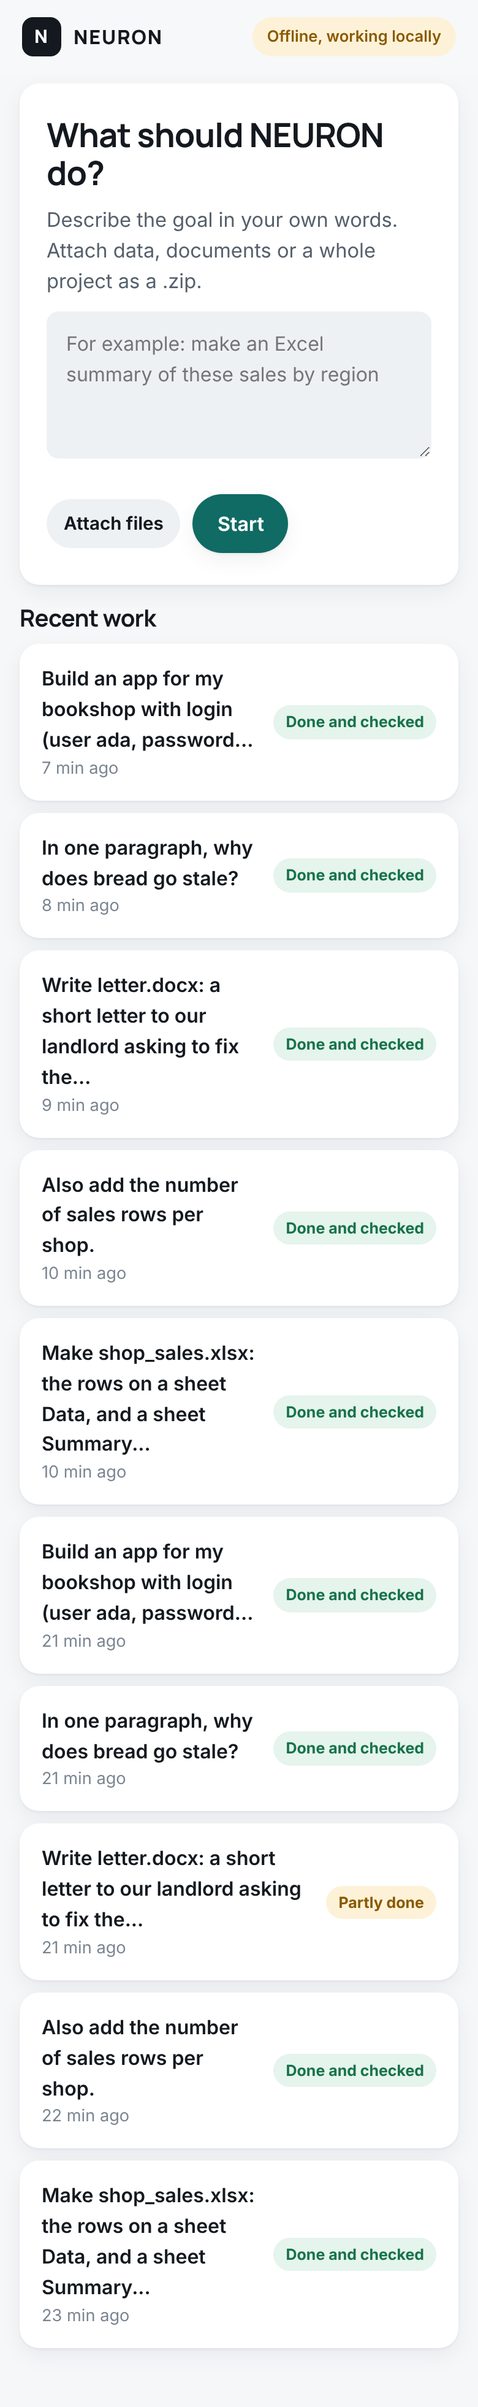
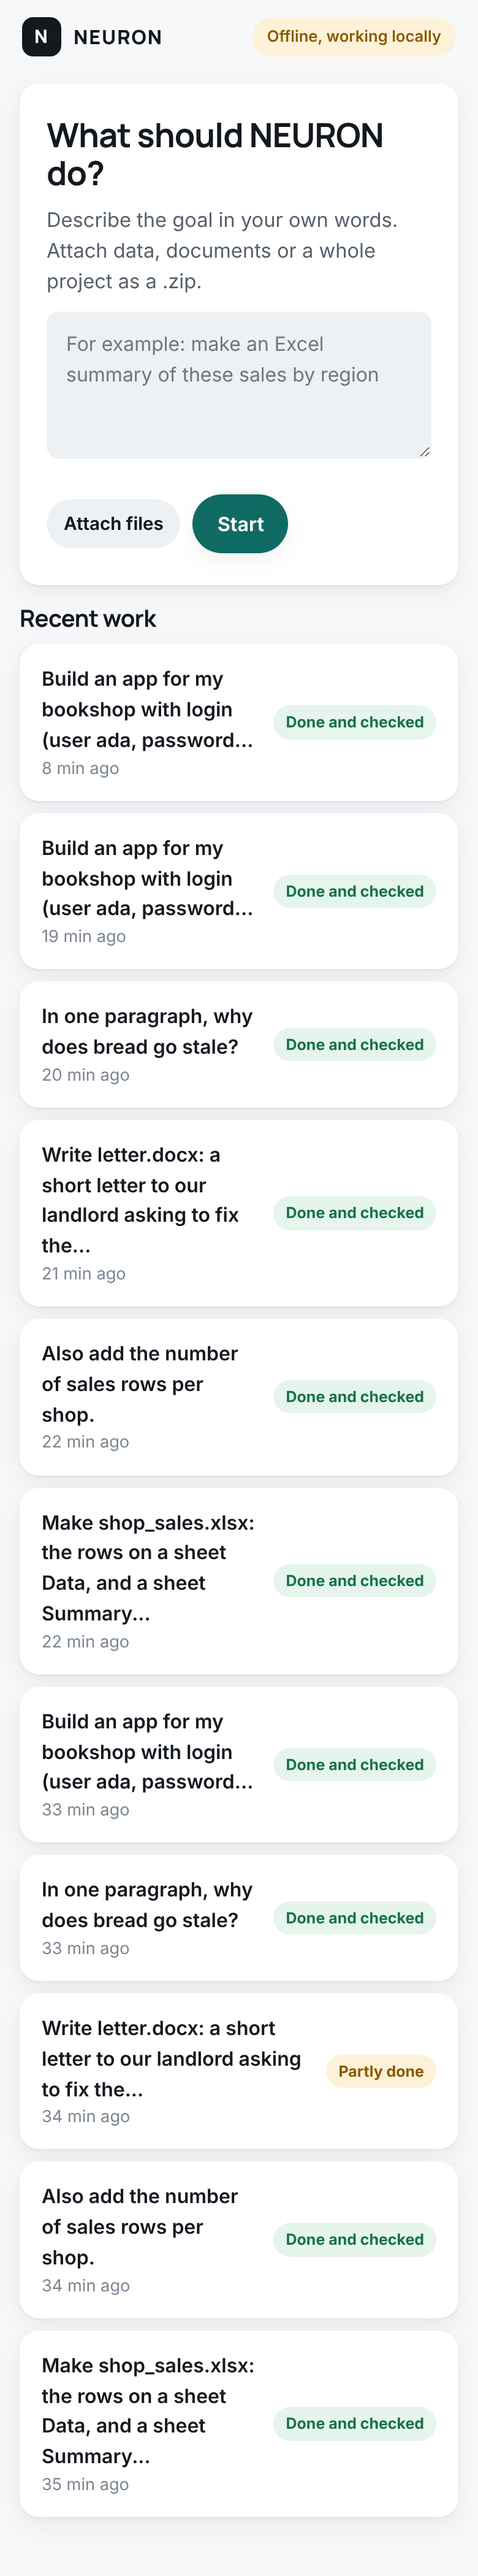
Step 2 done (Linux verified in the cloud machine; Windows written, waiting for the owner's test)
Run 3 (app only, labelled): app.zip offered, plain step summary, design 'no problems
found'; downloads no longer list internal .neuron files at any depth. README, roadmap
and PROGRESS record the clean-setup results and what remains unverified.

Claude-Session: https://claude.ai/code/session_01CW5ZWRippdYyCiJBtxjS7n

diff --git a/neuron/server/jobs.py b/neuron/server/jobs.py
@@ -215,7 +215,7 @@ class JobManager:
         out = []
         for p in sorted(ws.rglob("*")):
             rel = p.relative_to(ws)
-            if p.is_file() and rel.parts[0] not in (".neuron", "inputs") and "kit" not in rel.parts and "__pycache__" not in rel.parts \
+            if p.is_file() and rel.parts[0] != "inputs" and ".neuron" not in rel.parts and "kit" not in rel.parts and "__pycache__" not in rel.parts \
                     and not rel.name.startswith("data.db") and p.stat().st_size < 50 * 1024 * 1024:
                 out.append({"path": str(rel), "bytes": p.stat().st_size})
         return out[:200]

diff --git a/MASTER_ROADMAP.md b/MASTER_ROADMAP.md
@@ -18,12 +18,12 @@ Status words: **done** (built and measured), **built** (built, tested with scrip
 
 | | |
 |---|---|
-| Status | Linux **built**; Windows (WSL2) **planned, step 2**; macOS **later** |
-| Evidence | `scripts/install.sh` + `neuron/install.py` ran end to end on Ubuntu 24.04 in a cloud container (2 GB tier, 2026-11-17): packages, private Python libraries, checksum, model self-test (answered 42), sandbox self-test. Resumable download and wrong-checksum refusal are unit-tested (`tests/test_install.py`). Frozen model list: `model_manifests/frozen.json` |
-| Unverified | A clean machine install with the real frozen list and a real download; any home PC; Windows; macOS |
+| Status | Linux **done in the cloud machine**; Windows (WSL2) **built, unverified**; macOS **later** |
+| Evidence | Clean-setup retest 2026-11-18: fresh code copy, empty home, llama.cpp built from source, real 4.64 GB download, checksum, self-tests; 4 of 4 real tasks after fixes (`benchmark/results/release_retest_run2.json`). Windows: `scripts/install-windows.ps1`, rules unit-tested in `windows_plan()` |
+| Unverified | Any home PC; stock Ubuntu desktop (cgroup v2 memory limits via systemd and the AppArmor offer were not exercised here); Windows (never run); macOS |
 | Acceptance | From a fresh Ubuntu machine: one command installs, picks the right tier, verifies the model, self-tests, starts; a phone pairs and completes a real task offline. Windows: the owner reports the same via WSL2 |
 | Depends on | W4 (frozen models) |
-| Next | Clean-setup retest on real tasks; Windows installer via WSL2 with an owner test in `TESTING.md` |
+| Next | Owner tests: Windows (TESTING.md 1b) and a home Linux PC |
 
 ## W2. Phone interface
 

diff --git a/README.md b/README.md
@@ -25,7 +25,9 @@ machines.
 
 ## Try it
 
-Linux only for now (tested: Ubuntu 24.04). Windows and Mac are not supported until they have been tested.
+Linux: tested on Ubuntu 24.04 (cloud machine, clean setup, real download and real tasks: see below).
+Windows 10/11: installer through WSL2 written (`scripts/install-windows.ps1`), **not yet run on Windows**; the owner's
+test is in `TESTING.md` section 1b. Mac: not supported yet.
 
 ```
 git clone https://github.com/Sthmpe/Neuron.git && cd Neuron
@@ -66,6 +68,16 @@ granite-4.1-8b's 10th task overlapped my installer test, so its time is inflated
 The dev set was also used for tuning, so these scores are optimistic. The held-out scores below are the real test.
 
 ## Results
+
+### Release retest from a clean setup (2026-11-18)
+
+Fresh copy of the code, empty NEURON home, llama.cpp built from source, the real 4.64 GB model download for the tier
+the installer picked (8 GB on this 16 GB machine), checksum matched, model self-test 5.6 tokens/s, sandbox passed.
+Then four new real tasks through the phone API (`benchmark/release/retest.py`): run 1 solved 2 of 4 and found three
+bugs (a llama.cpp build break from changed UI downloads, a Word letter routed to code fixing because it said "fix",
+an app without a dashboard opening on "Not found"); after the fixes, run 2 (labelled rerun) solved **4 of 4**:
+Excel with formulas plus a follow-up, a Word letter, an answer, and a bookshop app with a stock rule.
+Screenshots of the real install: `docs/screens/release/`.
 
 ### Phase 5: locked evaluation (2026-11-18)
 

diff --git a/PROGRESS.md b/PROGRESS.md
@@ -83,6 +83,12 @@ Then, in order: full suite, merge, fast-forward main; design proof (20 requests)
 
 ## Events
 
+- 2026-11-18: step 1 MASTER_ROADMAP.md. Step 2: clean-setup Linux retest (real build, download, self-test, real tasks
+  through the phone API): run 1 2/4 with three bugs found and fixed, run 2 4/4; phone page polish (plain summaries,
+  app.zip). Windows installer via WSL2 written, unverified (no Windows; PowerShell download not permitted here).
+  Sandbox memory limits for cgroup v2 via systemd scopes and an AppArmor offer for stock Ubuntu: written, not
+  exercisable on this cgroup-v1 root machine.
+
 - 2026-11-18 morning: labelled rerun of the held-out builds with the current system found a regression (invented
   rules rejected 2 GB plans, 0/19); fixed (invalid rules and links are dropped and recorded); rerun: 9 of 9 builds
   pass on all tiers, all pages model-written, 0 design failures.
